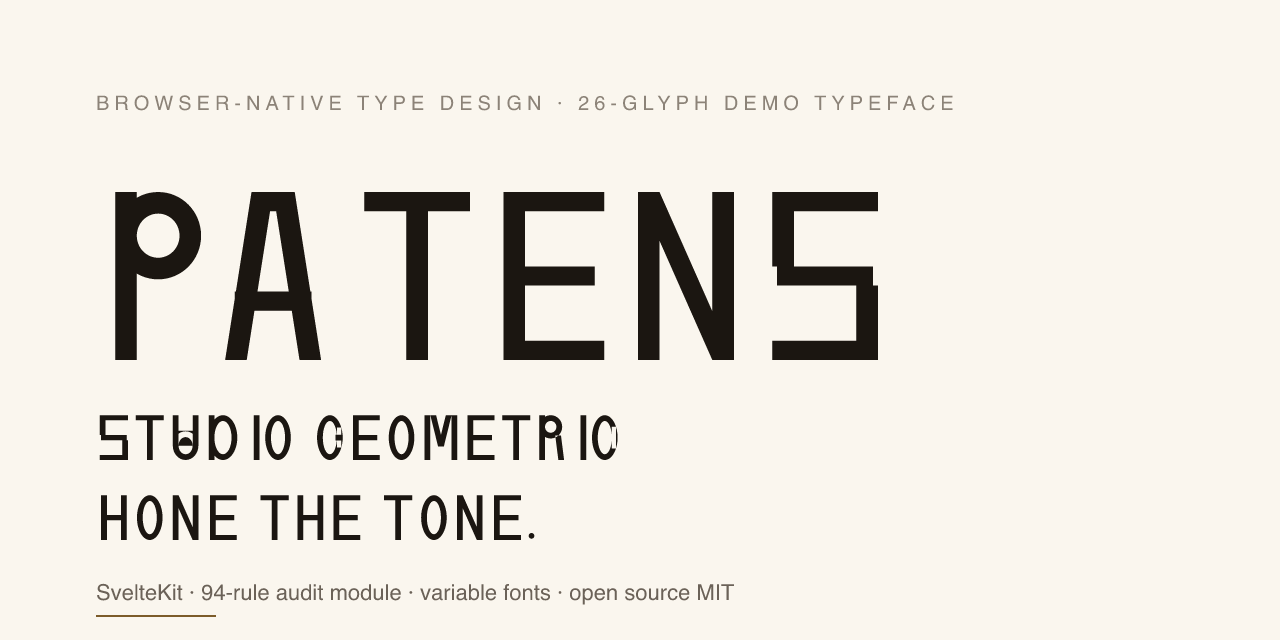
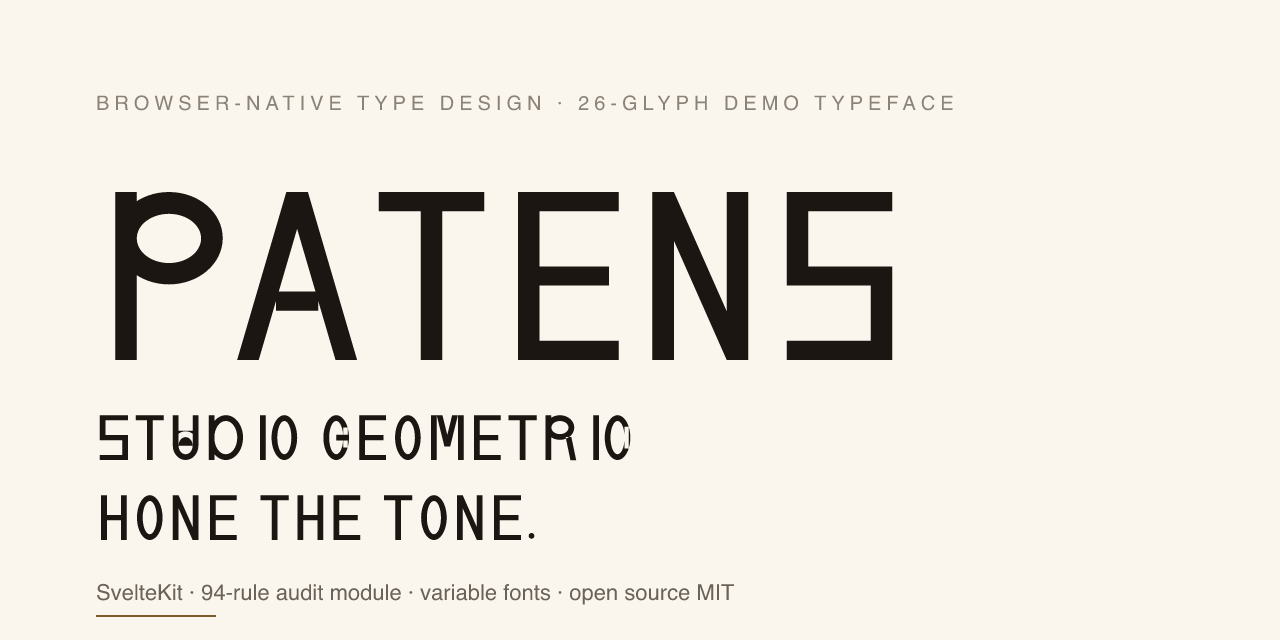
refine(demo-font): enlarge bowls, rebuild A, fix lowercase a proportions
User feedback: "the example font still looks really weird." The diagnostic
made the issues obvious — bowls on P/D/R were too small (looked like
balloons on sticks), A had a chunky parallelogram-with-apex-cap
construction, and lowercase a was a narrow oval because its rx formula
was wrong.

Changes:

  P, R: bowl-bottom 0.48 → 0.45 of cap-height (more bowl, less stick).
        Bowl rx 0.32 → 0.40 of CAP_W. The P/R now read as confident
        geometric letters, not stems with a small balloon on top.

  D:    bowl rx 0.4 → 0.48. The D now fills out its cap-height-tall
        ring properly instead of hugging the stem.

  A:    rebuilt as two parallelogram strokes meeting at a STEM-wide
        flat apex (was: two parallelogram strokes + a separate "apex
        cap" rectangle, which looked chunky). Crossbar X clamped to
        inner-edge geometry so no overshoot/gap. Wider base (30 →
        CAP_W-30) for a confident triangular silhouette.

  G:    spur now spans cx → cx+rx (center to outer wall) instead of
        cx+STEM → cx+rx — visually attaches to the right wall AND
        extends halfway into the counter, reading as a proper G spur.

  a (lowercase): rx formula corrected — was using a formula that
        produced a narrow oval (rx=115 for LC_W=480). Now derives from
        ringLeftEdge (lsb=80) and ringRightEdge (stemRightEdge=400),
        giving rx=160 — a proper circular bowl.

  S:    tried two-ring construction with middle bar (looked like + in
[…]

diff --git a/src/lib/font/kerning-quality-demo.test.ts b/src/lib/font/kerning-quality-demo.test.ts
@@ -181,13 +181,13 @@ describe('auto-kern regression vs demo font', () => {
 		// shifts make typographic sense, or did the algorithm break?"
 		expect(results).toMatchInlineSnapshot(`
 			{
-			  "AT": -118,
-			  "PA": -19,
-			  "Pe": -11,
-			  "Po": -11,
-			  "RT": 16,
-			  "TA": -78,
-			  "Ta": -245,
+			  "AT": -107,
+			  "PA": -42,
+			  "Pe": -18,
+			  "Po": -18,
+			  "RT": -6,
+			  "TA": -107,
+			  "Ta": -155,
 			  "To": -155,
 			}
 		`);